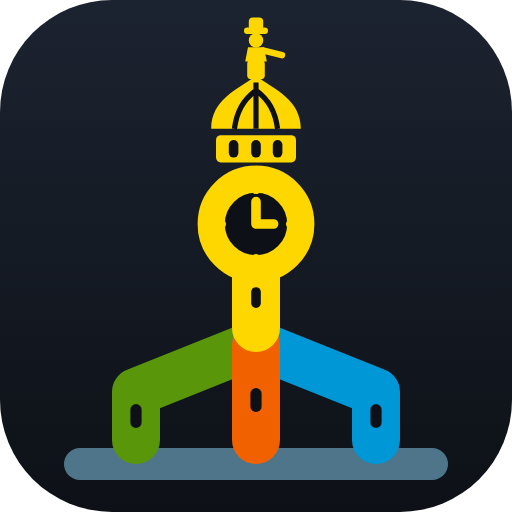
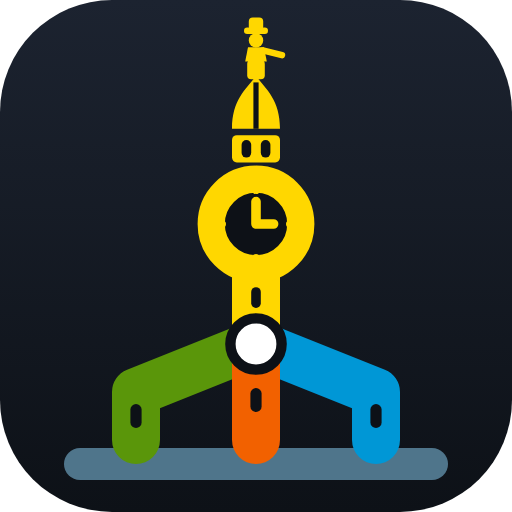
Narrow the tower cap and add an interchange dot
The drum and dome over the clock now match the shaft's 6-unit width
(two drum windows, a single dome rib to suit), and a white station dot
marks the interchange where the three building lines and the yellow
tower shaft meet. PNGs regenerated.

Claude-Session: https://claude.ai/code/session_01SDaXcSV7PRVGm2Rk6dKjyn

Changed region(s): [[0.4062, 0.1562, 0.5938, 0.3438], [0.4375, 0.5938, 0.5625, 0.75]]

diff --git a/scripts/og-template.html b/scripts/og-template.html
@@ -198,6 +198,8 @@
               <!-- The tower shaft, one yellow line up to the clock -->
               <path d="M32 41V34.3" stroke="#FFD700" stroke-width="6" stroke-linecap="round" />
               <rect x="31.4" y="35.9" width="1.2" height="2.6" rx=".6" fill="#0d1117" />
+              <!-- Interchange: a station dot where the four lines meet -->
+              <circle cx="32" cy="43" r="3.2" fill="#fff" stroke="#0d1117" stroke-width="1.3" />
               <!-- Clock face -->
               <circle cx="32" cy="28" r="5.6" fill="#0d1117" stroke="#FFD700" stroke-width="3.4" />
               <g stroke="#FFD700" stroke-linecap="round">
@@ -205,14 +207,13 @@
                 <path d="M32 28v-2.8M32 28h2.2" stroke-width="1.2" />
               </g>
               <!-- Drum with arched windows, ribbed dome, lantern -->
-              <rect x="27" y="16.9" width="10" height="3.4" rx=".6" fill="#FFD700" />
+              <rect x="29" y="16.9" width="6" height="3.4" rx=".6" fill="#FFD700" />
               <g fill="#0d1117">
-                <rect x="28.6" y="17.5" width="1.2" height="2.2" rx=".6" />
-                <rect x="31.4" y="17.5" width="1.2" height="2.2" rx=".6" />
-                <rect x="34.1" y="17.5" width="1.2" height="2.2" rx=".6" />
+                <rect x="30.2" y="17.5" width="1.2" height="2.2" rx=".6" />
+                <rect x="32.6" y="17.5" width="1.2" height="2.2" rx=".6" />
               </g>
-              <path d="M26.4 16.1C26.4 12.5 29.6 11.2 32 9.5 34.4 11.2 37.6 12.5 37.6 16.1Z" fill="#FFD700" />
-              <path d="M32 10.3V16.1M29.3 16.1c.3-2.2 1.1-3.6 2.69-4.8M34.7 16.1c-.3-2.2-1.1-3.6-2.69-4.8" stroke="#0d1117" stroke-width=".65" fill="none" />
+              <path d="M29 16.1C29 12.5 30.7 11.2 32 9.5 33.3 11.2 35 12.5 35 16.1Z" fill="#FFD700" />
+              <path d="M32 10.3V16.1" stroke="#0d1117" stroke-width=".65" fill="none" />
               <rect x="30.9" y="7.5" width="2.2" height="2.4" rx=".5" fill="#FFD700" />
               <!-- William Penn -->
               <g fill="#FFD700">

diff --git a/src/components/BrandMark.jsx b/src/components/BrandMark.jsx
@@ -34,6 +34,8 @@ export default function BrandMark({ className = 'h-8 w-8' }) {
       {/* The tower shaft, one yellow line up to the clock */}
       <path d="M32 41V34.3" stroke="#FFD700" strokeWidth="6" strokeLinecap="round" />
       <rect x="31.4" y="35.9" width="1.2" height="2.6" rx=".6" fill="#0d1117" />
+      {/* Interchange: a station dot where the four lines meet */}
+      <circle cx="32" cy="43" r="3.2" fill="#fff" stroke="#0d1117" strokeWidth="1.3" />
       {/* Clock face */}
       <circle cx="32" cy="28" r="5.6" fill="#0d1117" stroke="#FFD700" strokeWidth="3.4" />
       <g stroke="#FFD700" strokeLinecap="round">
@@ -41,22 +43,13 @@ export default function BrandMark({ className = 'h-8 w-8' }) {
         <path d="M32 28v-2.8M32 28h2.2" strokeWidth="1.2" />
       </g>
       {/* Drum with arched windows, ribbed dome, lantern */}
-      <rect x="27" y="16.9" width="10" height="3.4" rx=".6" fill="#FFD700" />
+      <rect x="29" y="16.9" width="6" height="3.4" rx=".6" fill="#FFD700" />
       <g fill="#0d1117">
-        <rect x="28.6" y="17.5" width="1.2" height="2.2" rx=".6" />
-        <rect x="31.4" y="17.5" width="1.2" height="2.2" rx=".6" />
-        <rect x="34.1" y="17.5" width="1.2" height="2.2" rx=".6" />
+        <rect x="30.2" y="17.5" width="1.2" height="2.2" rx=".6" />
+        <rect x="32.6" y="17.5" width="1.2" height="2.2" rx=".6" />
       </g>
-      <path
-        d="M26.4 16.1C26.4 12.5 29.6 11.2 32 9.5 34.4 11.2 37.6 12.5 37.6 16.1Z"
-        fill="#FFD700"
-      />
-      <path
-        d="M32 10.3V16.1M29.3 16.1c.3-2.2 1.1-3.6 2.69-4.8M34.7 16.1c-.3-2.2-1.1-3.6-2.69-4.8"
-        stroke="#0d1117"
-        strokeWidth=".65"
-        fill="none"
-      />
+      <path d="M29 16.1C29 12.5 30.7 11.2 32 9.5 33.3 11.2 35 12.5 35 16.1Z" fill="#FFD700" />
+      <path d="M32 10.3V16.1" stroke="#0d1117" strokeWidth=".65" fill="none" />
       <rect x="30.9" y="7.5" width="2.2" height="2.4" rx=".5" fill="#FFD700" />
       {/* William Penn */}
       <g fill="#FFD700">
